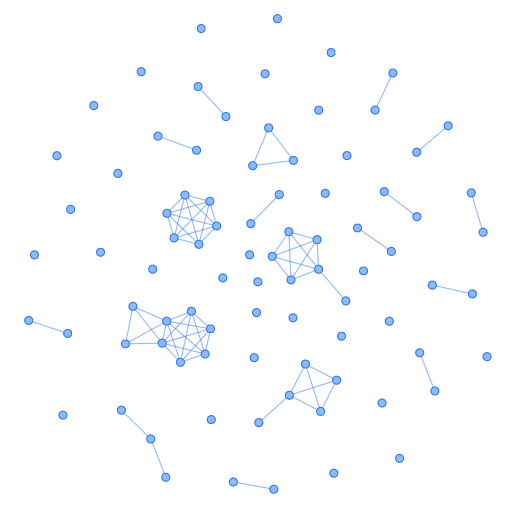
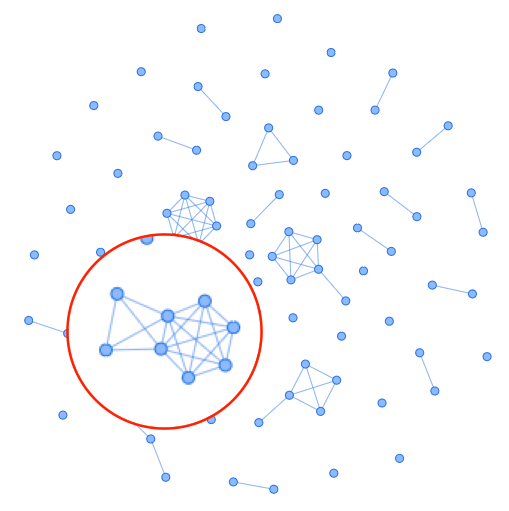
TASK Add images to documentation

diff --git a/src/series2/readme.md b/src/series2/readme.md
@@ -110,3 +110,23 @@ The pseudo code will genarate an AST based on the location of the project. The c
 You can display the AST as an tree. When you compare the nodes, there will be a lot of useless small clones. This parameter can be used to define a minimum size. Nodes are only considered that contain z sub nodes.
 
 * minimalSimularity = ```z```
+
+# Clone classes
+
+![Clone classes](docs/clone_classes.png)
+
+
+
+# Visualization
+
+![Clone map](docs/clone_map.png)
+
+Figure: Clone map
+
+![Edges graph](docs/edges_graph_ori.png)
+
+Figure: Graph of clone classes
+
+![Files graph](docs/files_graph.png)
+
+Figure: Graph of clone files
